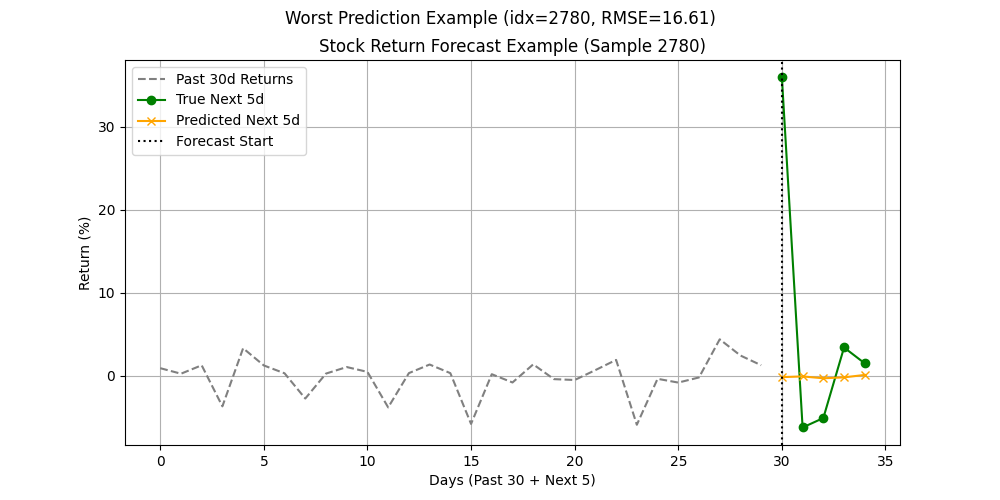
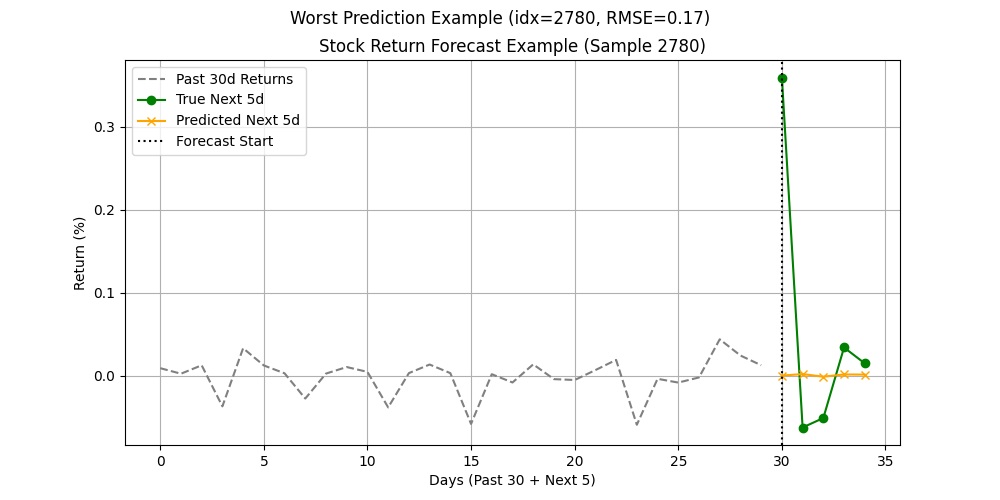
feat: add loss training vs validation

diff --git a/src/train.py b/src/train.py
@@ -3,6 +3,7 @@ import sys
 from pathlib import Path
 from typing import Tuple, Dict
 
+import matplotlib.pyplot as plt
 import numpy as np
 import pandas as pd
 import tensorflow as tf
@@ -97,7 +98,7 @@ def main() -> None:
 
     # Load data
     X_train, y_train, X_test, y_test = load_sequence_data(prepared_dataset_folder, input_len, output_len)
-    print(f"Loaded {len(X_train)} train sequences, {len(X_test)} test sequences")
+    print(f"\nLoaded {len(X_train)} train sequences, {len(X_test)} test sequences\n")
 
     # Build model
     model = get_sequence_model(
@@ -125,6 +126,23 @@ def main() -> None:
         batch_size=32,
         verbose=1
     )
+
+    # Plot training vs validation loss
+    evaluation_folder = Path("evaluation")
+    plots_folder = evaluation_folder / "plots"
+
+    plt.figure(figsize=(8, 5))
+    plt.plot(history.history["loss"], label="Train Loss")
+    plt.plot(history.history["val_loss"], label="Validation Loss")
+    plt.title("Training vs Validation Loss")
+    plt.xlabel("Epochs")
+    plt.ylabel("MSE Loss")
+    plt.legend()
+    plt.grid(True)
+    plt.tight_layout()
+    plt.savefig(plots_folder / "loss_curve.png")
+    plt.close()
+
 
     # Save model
     model_folder.mkdir(parents=True, exist_ok=True)
